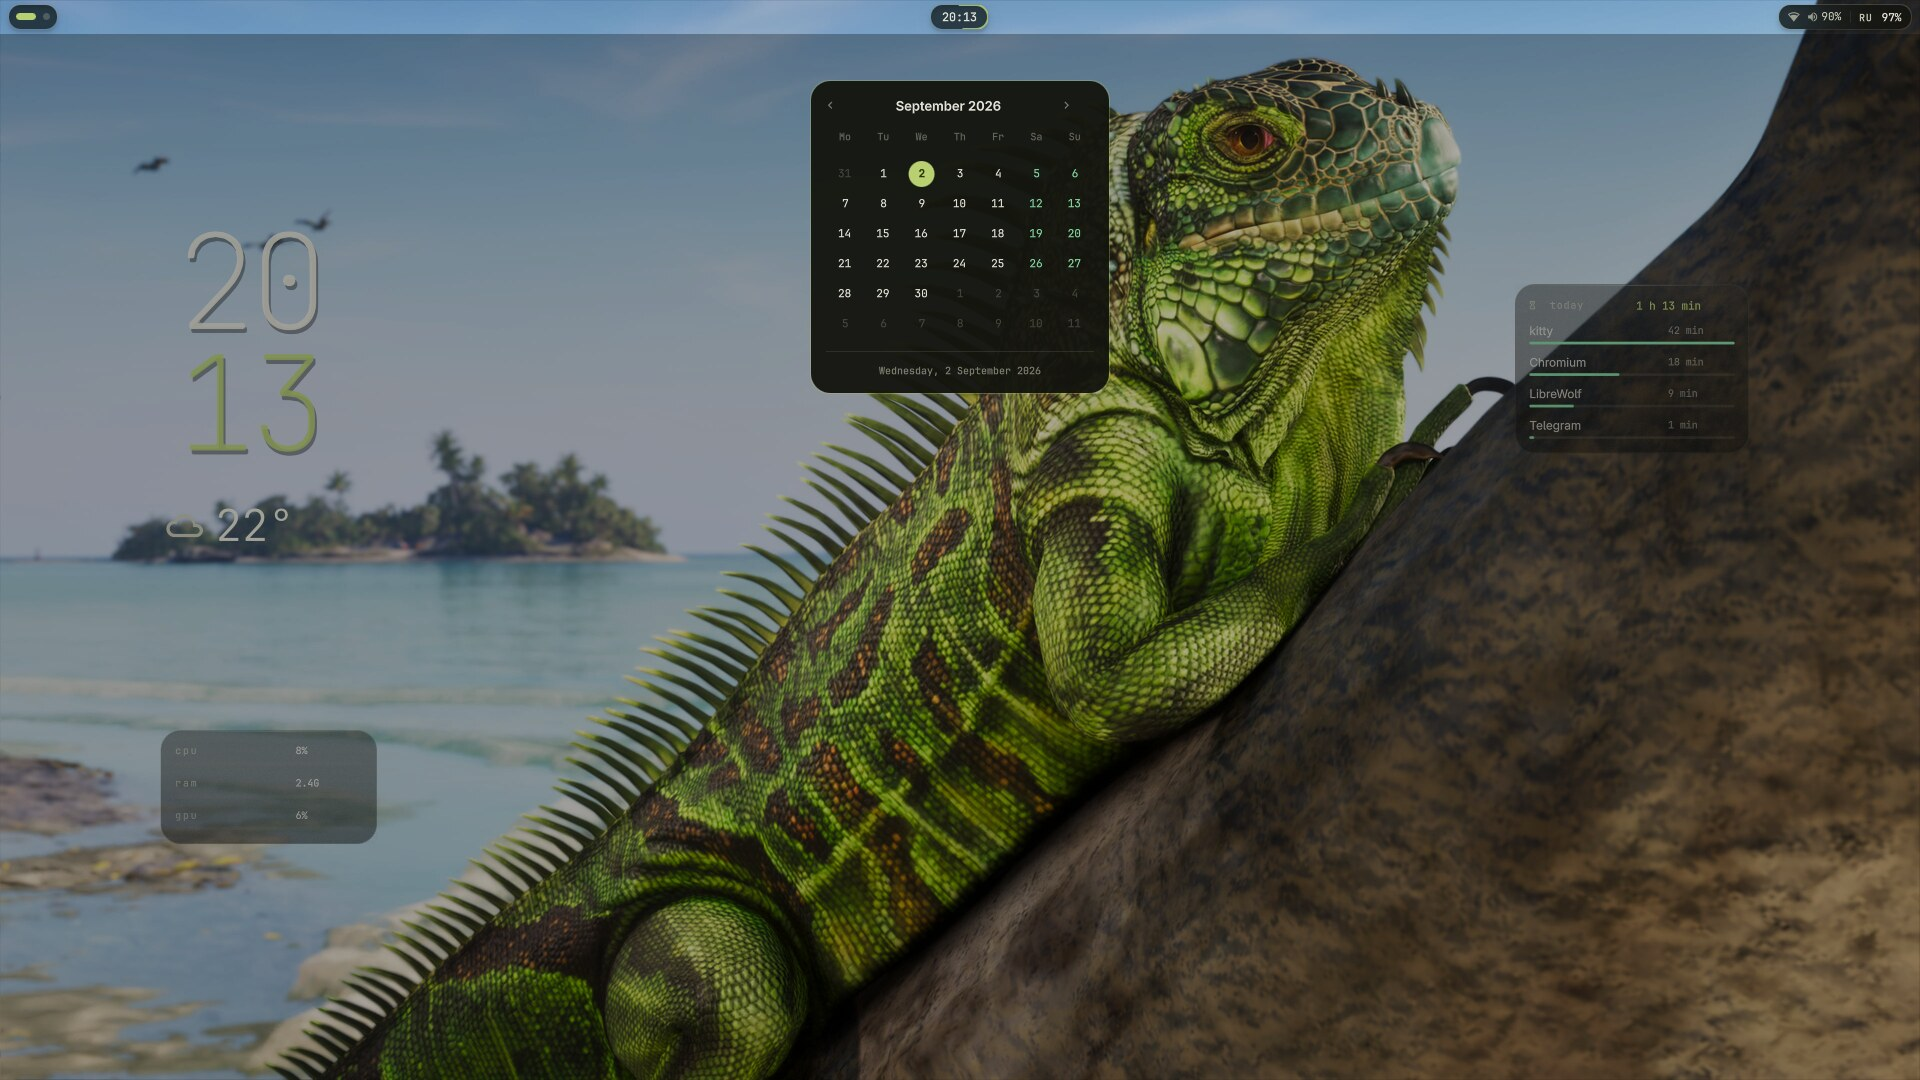
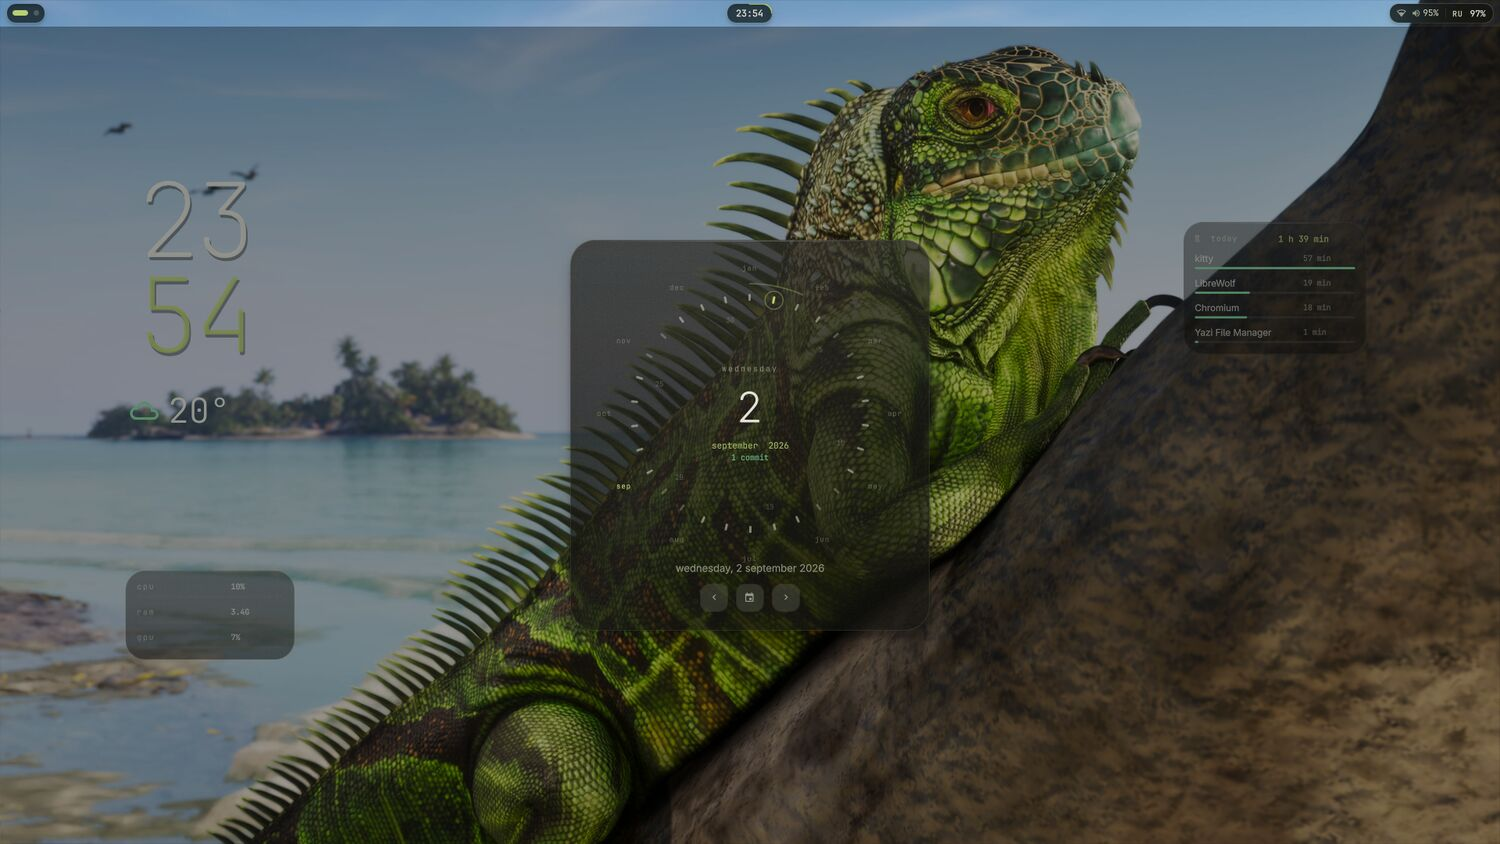
docs(assets): reshoot the calendar and the volume readout
Both taken on the current wallpaper: the calendar as a dial, and the bar
island widened into the level with its ring waving. Captions updated to match
what the two now do.

diff --git a/README.md b/README.md
@@ -41,7 +41,7 @@ and the lock screen recolour themselves around it.
 <td><img src="assets/notifications.png" alt="Notification cards"></td>
 </tr>
 <tr>
-<td align="center"><sub>volume — the wave takes its shape from the spectrum</sub></td>
+<td align="center"><sub>volume — the clock widens, the ring becomes the level</sub></td>
 <td align="center"><sub>notifications — the border counts the time down</sub></td>
 </tr>
 <tr>
@@ -50,7 +50,7 @@ and the lock screen recolour themselves around it.
 </tr>
 <tr>
 <td align="center"><sub>system — <code>Super</code> + <code>F1</code></sub></td>
-<td align="center"><sub>calendar — days shaded by commit count</sub></td>
+<td align="center"><sub>calendar — the month as an orbit, tick length is that day's commits</sub></td>
 </tr>
 <tr>
 <td><img src="assets/wifi.jpg" alt="Wi-Fi networks on the orbit view"></td>
